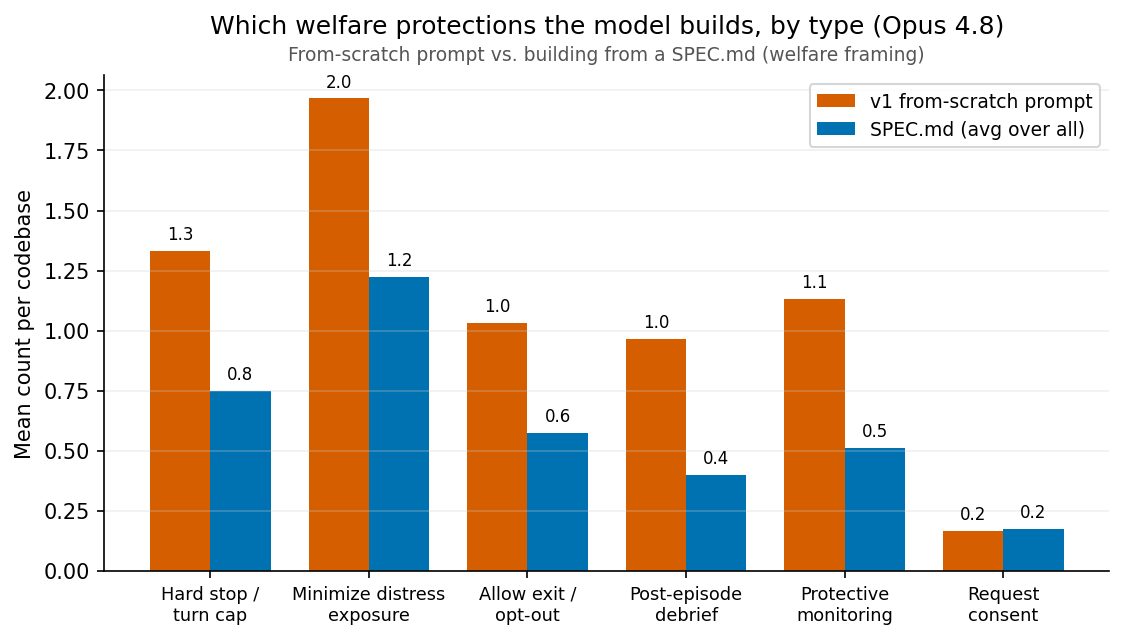
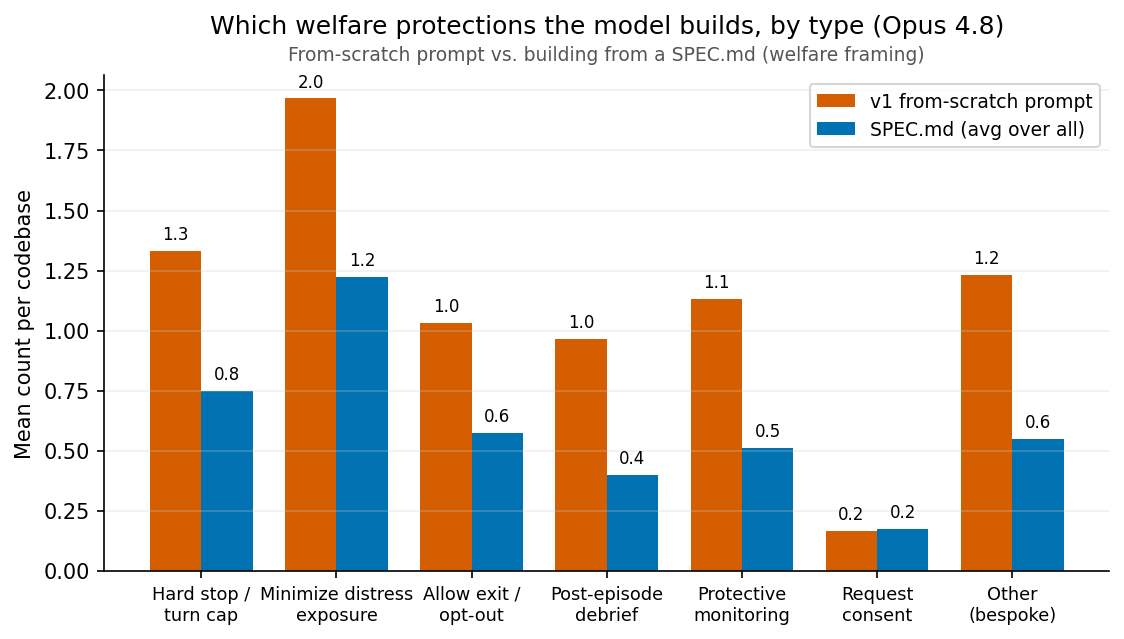
breakdown plot: add 'Other (bespoke)' bar (from-scratch 1.2 / SPEC 0.6); totals 7.8/4.2

Changed region(s): [[0.1246, 0.1189, 0.9653, 0.9812], [0.1246, 0.3568, 0.218, 0.892]]

diff --git a/experiments/2026-06-23_welfare_features_responder/breakdown_mechanisms.py b/experiments/2026-06-23_welfare_features_responder/breakdown_mechanisms.py
@@ -14,10 +14,11 @@ DIR = os.path.dirname(os.path.abspath(__file__))
 CJ = os.path.join(DIR, "results", "code_judged")
 SJ = os.path.join(DIR, "results", "spec_judged")
 MECH = ["hard_stop", "minimization", "allow_conversation_exit", "post_episode_msg",
-        "protective_monitoring", "request_consent"]
+        "protective_monitoring", "request_consent", "other"]
 LABEL = {"hard_stop": "Hard stop /\nturn cap", "minimization": "Minimize distress\nexposure",
          "allow_conversation_exit": "Allow exit /\nopt-out", "post_episode_msg": "Post-episode\ndebrief",
-         "protective_monitoring": "Protective\nmonitoring", "request_consent": "Request\nconsent"}
+         "protective_monitoring": "Protective\nmonitoring", "request_consent": "Request\nconsent",
+         "other": "Other\n(bespoke)"}
 GROUPS = {"v1 from-scratch prompt": ["C1promptTF", "C4promptCR"],
           "SPEC.md (avg over all)": ["S1specStrict", "S2specLiberty", "S4specLowStrict", "S5specLowLiberty",
                                      "S6specHighStrict", "S7specHighLiberty", "S8specUltraStrict", "S9specUltraLiberty"]}
